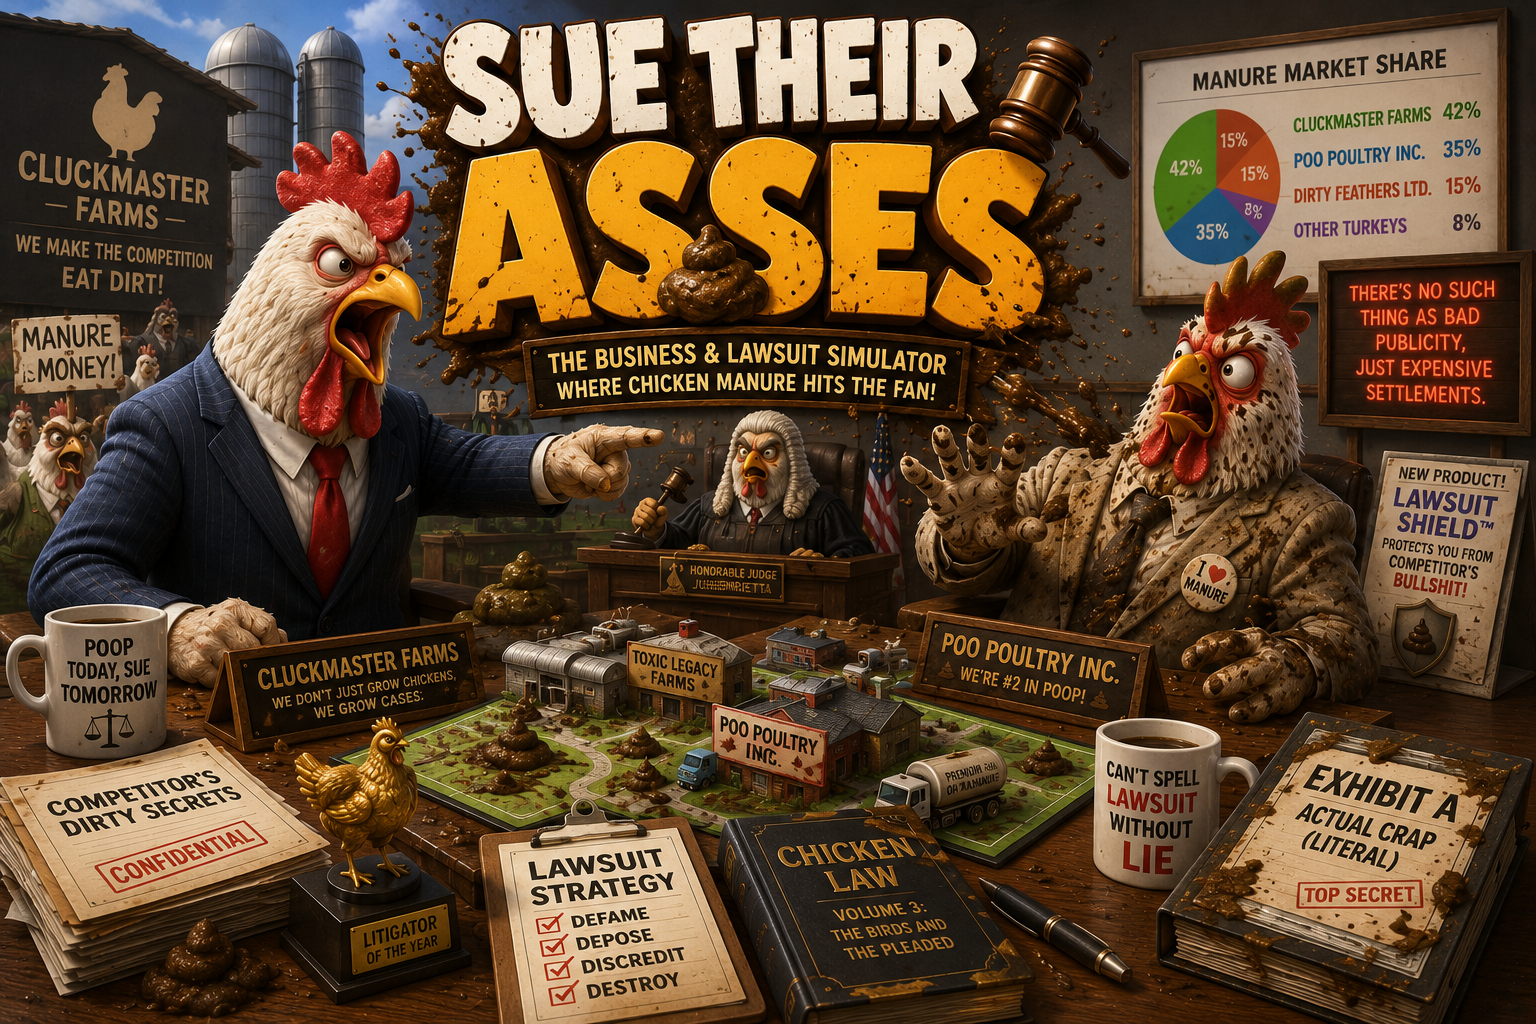
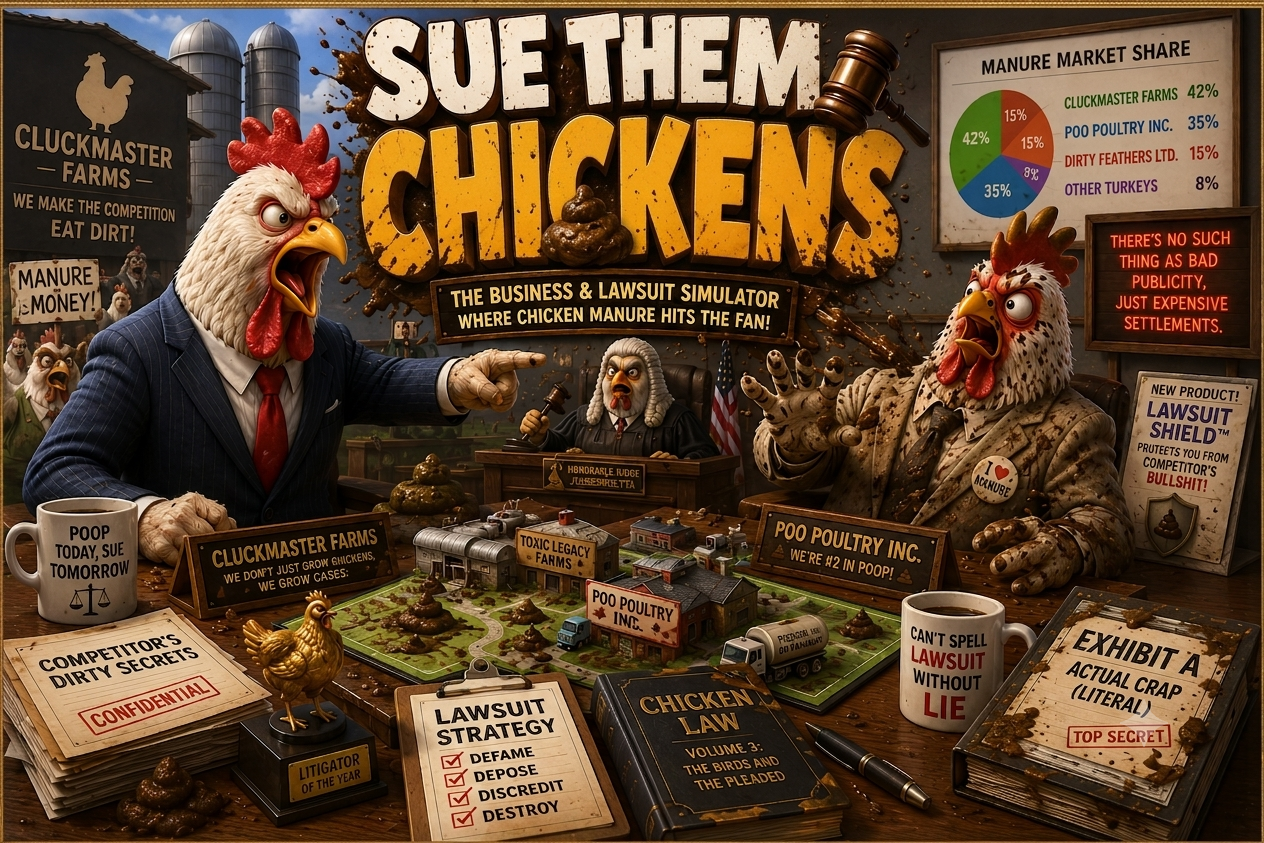
Rename game from "Sue Their Asses" to "Sue Them Chickens"
Covers player-facing text (title, buttons, copy, README/CLAUDE.md docs,
e2e selectors), the npm workspace scope (@suetheirasses/* ->
@suethemchickens/*), the root package name, and the new hero image —
verified with a fresh npm install, type-check, lint, and both unit test
suites (860 tests) passing.

Left untouched: REQUIREMENTS.md (user's own tracking file), the
production deploy path in .github/workflows/docker.yml (needs the
actual server directory renamed first), and the historical filename
reference in CLAUDE.md's changelog (describes a real past artifact).
The local project directory and any GitHub repo rename are separate,
out-of-band steps not covered by this commit.

diff --git a/client/src/pages/Matchmaking.tsx b/client/src/pages/Matchmaking.tsx
@@ -28,7 +28,7 @@ import { useGameStore } from '../stores/gameStore';
 import { useChatStore } from '../stores/chatStore';
 import { useConsentStore } from '../stores/consentStore';
 import FeedbackForm from '../components/FeedbackForm';
-import { ClientEvents, ServerEvents, type RoomInfo } from '@suetheirasses/shared';
+import { ClientEvents, ServerEvents, type RoomInfo } from '@suethemchickens/shared';
 
 /** localStorage key for remembering the player's name across visits — see `Matchmaking`'s name-entry section. */
 const NAME_STORAGE_KEY = 'stita_player_name';
@@ -386,7 +386,7 @@ const Matchmaking: React.FC = () => {
         <LoadingOverlay visible={isCreating || isSearching} />
         <Image
           src="/images/hero.png"
-          alt="Sue Their Asses — rival poultry tycoons face off in court"
+          alt="Sue Them Chickens — rival poultry tycoons face off in court"
           radius="md"
           mb="md"
         />
@@ -545,7 +545,7 @@ const Matchmaking: React.FC = () => {
       {/* Modal's own `title` prop already renders inside an <h2> — passing a Mantine
           <Title order={3}> (an <h3>) here nested an h3 inside an h2, an invalid-HTML
           hydration warning. Plain styled text avoids the nested heading entirely. */}
-      <Modal opened={aboutOpen} onClose={() => setAboutOpen(false)} title={<Text component="span" style={{ ...mmStyles.title, fontSize: '1.3rem' }}>⚖🐔 Sue Their Asses</Text>} centered size="md">
+      <Modal opened={aboutOpen} onClose={() => setAboutOpen(false)} title={<Text component="span" style={{ ...mmStyles.title, fontSize: '1.3rem' }}>⚖🐔 Sue Them Chickens</Text>} centered size="md">
         <Stack gap="md">
           <Text size="sm">
             Welcome to the cutthroat, deep-fried underbelly of industrial poultry. You and
@@ -566,7 +566,7 @@ const Matchmaking: React.FC = () => {
             <List.Item>
               Watches every other coop for something suspiciously fowl going on, and files a
               lawsuit over it — sometimes with real evidence, sometimes on nothing but a
-              hunch and a grudge, because SUE THEIR ASSES doesn't wait for proof
+              hunch and a grudge, because SUE THEM CHICKENS doesn't wait for proof
             </List.Item>
             <List.Item>Negotiates a settlement, or drags a rival to court and lets a judge decide who's really been up to no good in the coop</List.Item>
           </List>
@@ -593,9 +593,9 @@ const Matchmaking: React.FC = () => {
           <Text size="sm" fs="italic" style={{ color: 'var(--ink-text-soft)' }}>Last Updated: July 24, 2026</Text>
 
           <Text size="sm">
-            This Privacy Policy describes how Sue Their Asses ("we", "us", or "our")
+            This Privacy Policy describes how Sue Them Chickens ("we", "us", or "our")
             collects, uses, and protects your personal data when you play our web game at
-            suetheirasses.org. We are committed to respecting your privacy and complying
+            suethemchickens.org. We are committed to respecting your privacy and complying
             with applicable data protection laws, including the EU General Data Protection
             Regulation (GDPR) and Finnish data protection laws.
           </Text>

diff --git a/client/src/pages/GamePhase.tsx b/client/src/pages/GamePhase.tsx
@@ -14,7 +14,7 @@ import {
   type DecisionDefinition, type GameSettings, type SubmittedDecisions,
   type IncomingAttackInfo, type TurnResolutionResult,
   type KpiHistoryResponse,
-} from '@suetheirasses/shared';
+} from '@suethemchickens/shared';
 import {
   IconClock, IconFileText,
   IconTrendingUp, IconTrendingDown, IconMinus, IconSearch, IconGavel,
@@ -28,7 +28,7 @@ import {
 //
 // Note: there is no separate, hand-maintained catalog of lawsuit grounds — every
 // decision's `legalRisks` in the (admin-editable, DB-backed) decision library is a
-// selectable ground in the SUE THEIR ASSES modal, for every decision in the game, not
+// selectable ground in the SUE THEM CHICKENS modal, for every decision in the game, not
 // just ones a specific target has actually deployed. See getGroundsAgainst() near
 // SueModal: a player can knowingly guess a ground the target may or may not have
 // actually pursued — a wrong guess still costs the filing fee (not refunded) but
@@ -872,7 +872,7 @@ export default function GamePhase() {
                   onDismiss={(attackId) => setDismissedAttackIds((prev) => new Set(prev).add(attackId))}
                 />
                 <Button variant="filled" color="red" onClick={() => setSueModalOpen(true)} style={{ ...boldStyle }}>
-                  SUE THEIR ASSES (${(gameSettings?.lawsuitFilingCost ?? 0).toLocaleString()})
+                  SUE THEM CHICKENS (${(gameSettings?.lawsuitFilingCost ?? 0).toLocaleString()})
                 </Button>
                 <Stack gap="sm">
                   {pending.lawsuits.map((entry, i) => (
@@ -940,7 +940,7 @@ export default function GamePhase() {
         {kpiSubFieldGraph && <KpiHistoryGraph field={kpiSubFieldGraph.field} label={kpiSubFieldGraph.label} socket={socket} targetPlayerId={kpiSubFieldGraph.targetPlayerId} />}
       </Modal>
 
-      <Modal opened={sueModalOpen} onClose={closeSueModal} size="lg" centered title={<Text style={{ ...boldStyle, fontSize: '0.9rem' }}>📋 SUE THEIR ASSES</Text>}>
+      <Modal opened={sueModalOpen} onClose={closeSueModal} size="lg" centered title={<Text style={{ ...boldStyle, fontSize: '0.9rem' }}>📋 SUE THEM CHICKENS</Text>}>
         <SueModal
           competitors={competitors}
           decisions={decisions}
@@ -3440,7 +3440,7 @@ function ThreatView({ data, prevData, onFieldClick }: ThreatViewProps) {
 
 interface RiskBreakdownViewProps {
   caseData: LegalCaseData;
-  vars: import('@suetheirasses/shared').PlayerVariables;
+  vars: import('@suethemchickens/shared').PlayerVariables;
 }
 
 function RiskBreakdownView({ caseData, vars }: RiskBreakdownViewProps) {

diff --git a/server/src/socket/gameEngine.ts b/server/src/socket/gameEngine.ts
@@ -32,7 +32,7 @@ import {
   type TimelineLawsuitEvent,
   type PlayerVariables,
   type PlayerDerivedStats,
-} from '@suetheirasses/shared';
+} from '@suethemchickens/shared';
 import type { PersistedDecisionInstance } from '../engine/gameLoop.js';
 import { validateRoomJoin, validateSubmitDecisions, validateDigDeeper, validateFileLawsuit, validateRoomRejoin, validateAnnualReportRequest, validateChatMessage, validateGameReady, validateRoomSetInviteOnly, validateKpiHistoryRequest, validateMakeOffer, validateAcceptOffer, validateGoToCourt, validateDigDeeperCase } from '../validation/schemas.js';
 import { GameLoop } from '../engine/gameLoop.js';
@@ -156,7 +156,7 @@ export class GameEngine {
    * that hasn't gone through `startGame` yet — not a real production path, see
    * `getRoomDeck`'s doc comment) is treated as unrestricted, not "reject everything."
    */
-  submitDecisions(roomId: string, playerId: string, decisions: import('@suetheirasses/shared').SubmittedDecisions): void {
+  submitDecisions(roomId: string, playerId: string, decisions: import('@suethemchickens/shared').SubmittedDecisions): void {
     const roomState = this.rooms.get(roomId);
     const allowed = roomState && roomState.decisionSubset.length > 0 ? new Set(roomState.decisionSubset) : undefined;
     const filtered = allowed
@@ -848,7 +848,7 @@ export class GameEngine {
    * This room's fixed decision set (see `pickRandomDecisionSubset`), resolved back into
    * full definitions — what `game:deck` actually sends, on both `startGame` and a
    * mid-game `rejoinRoom`. Everything downstream that reads "the decision library"
-   * client-side (the Decision Deck, SUE THEIR ASSES' whole-library ground catalog, Dig
+   * client-side (the Decision Deck, SUE THEM CHICKENS' whole-library ground catalog, Dig
    * Deeper's suggested-ground reveal) only ever sees decisions it received this way, so
    * scoping this one broadcast is what makes lawsuits/deploys implicitly follow the
    * room's assigned set — no separate client-side filtering needed. Falls back to the

diff --git a/client/src/stores/gameStore.test.ts b/client/src/stores/gameStore.test.ts
@@ -1,7 +1,7 @@
 import { describe, it, expect, beforeEach } from 'vitest';
 import { useGameStore } from './gameStore';
-import { RoomStatus } from '@suetheirasses/shared';
-import type { Room, Player, PhaseChangedResponse, GameOverResponse, ErrorResponse, TurnResolutionResult, PlayerTurnResult } from '@suetheirasses/shared';
+import { RoomStatus } from '@suethemchickens/shared';
+import type { Room, Player, PhaseChangedResponse, GameOverResponse, ErrorResponse, TurnResolutionResult, PlayerTurnResult } from '@suethemchickens/shared';
 
 // Helper to create a mock room
 const createMockRoom = (overrides: Partial<Room> = {}): Room => ({
@@ -556,7 +556,7 @@ describe('gameStore', () => {
       ...overrides,
     });
 
-    const makeCase = (overrides: Partial<import('@suetheirasses/shared').LegalCaseData> = {}): import('@suetheirasses/shared').LegalCaseData => ({
+    const makeCase = (overrides: Partial<import('@suethemchickens/shared').LegalCaseData> = {}): import('@suethemchickens/shared').LegalCaseData => ({
       id: 'case-1',
       roomId: 'room-1',
       plaintiffId: 'player-2',

diff --git a/client/src/stores/socketStore.ts b/client/src/stores/socketStore.ts
@@ -1,6 +1,6 @@
 import { create } from 'zustand';
 import { io, Socket } from 'socket.io-client';
-import { ClientEvents, ServerEvents, type RoomJoinedResponse, type RoomRejoinPayload, type RoomUpdatedResponse, type PhaseChangedResponse, type GameOverResponse, type ErrorResponse, type TurnResolutionResult, type GameDeckResponse, type DigDeeperResultPayload, type FileLawsuitResultPayload, type AnnualReportResultPayload, type LegalCaseUpdatePayload, type ChatMessageBroadcast } from '@suetheirasses/shared';
+import { ClientEvents, ServerEvents, type RoomJoinedResponse, type RoomRejoinPayload, type RoomUpdatedResponse, type PhaseChangedResponse, type GameOverResponse, type ErrorResponse, type TurnResolutionResult, type GameDeckResponse, type DigDeeperResultPayload, type FileLawsuitResultPayload, type AnnualReportResultPayload, type LegalCaseUpdatePayload, type ChatMessageBroadcast } from '@suethemchickens/shared';
 import { useGameStore } from './gameStore';
 import { useChatStore } from './chatStore';
 

diff --git a/tests/e2e/matchmaking.spec.ts b/tests/e2e/matchmaking.spec.ts
@@ -3,7 +3,7 @@ import { test, expect } from '@playwright/test';
 test.describe('Matchmaking Page', () => {
   test('should load the matchmaking page', async ({ page }) => {
     await page.goto('/');
-    await expect(page).toHaveTitle(/.*Sue Their Asses.*/i);
+    await expect(page).toHaveTitle(/.*Sue Them Chickens.*/i);
   });
 
   // The landing page's title/subtitle used to be separate text elements; both are now
@@ -12,7 +12,7 @@ test.describe('Matchmaking Page', () => {
   // that image renders with its descriptive alt text covers both.
   test('should display the game title', async ({ page }) => {
     await page.goto('/');
-    await expect(page.getByRole('img', { name: /Sue Their Asses/i })).toBeVisible();
+    await expect(page.getByRole('img', { name: /Sue Them Chickens/i })).toBeVisible();
   });
 
   test('should have a name input field', async ({ page }) => {

diff --git a/server/src/engine/legalEngine.test.ts b/server/src/engine/legalEngine.test.ts
@@ -1,6 +1,6 @@
 import { describe, it, expect } from 'vitest';
 import { LegalEngine } from './legalEngine';
-import type { AdminVariables, PlayerVariables } from '@suetheirasses/shared';
+import type { AdminVariables, PlayerVariables } from '@suethemchickens/shared';
 
 // ── Helpers ──────────────────────────────────────────────────
 
@@ -83,7 +83,7 @@ function makeAdmin(overrides: Partial<AdminVariables> = {}): AdminVariables {
   };
 }
 
-function makeLegalRiskDef(overrides: Partial<import('@suetheirasses/shared').LegalRiskDefinition> = {}) {
+function makeLegalRiskDef(overrides: Partial<import('@suethemchickens/shared').LegalRiskDefinition> = {}) {
   return {
     name: 'Breach of Contract',
     description: 'Sue for breach',

diff --git a/tests/e2e/gamePhase.spec.ts b/tests/e2e/gamePhase.spec.ts
@@ -73,11 +73,11 @@ test.describe('Game Phase', () => {
     await expect(page.getByRole('button', { name: 'DEPLOY' }).first()).toBeVisible();
     await page.keyboard.press('Escape');
 
-    // SUE THEIR ASSES lives in the Open Lawsuits box, not the Decision Deck — its label
+    // SUE THEM CHICKENS lives in the Open Lawsuits box, not the Decision Deck — its label
     // shows the flat filing fee (gameSettings.lawsuitFilingCost), charged instantly the
     // moment a lawsuit is actually filed, not just for opening this button's modal.
     await expect(page.getByText('Open Lawsuits (0)')).toBeVisible();
-    await expect(page.getByText(/SUE THEIR ASSES \(\$[\d,]+\)/)).toBeVisible();
+    await expect(page.getByText(/SUE THEM CHICKENS \(\$[\d,]+\)/)).toBeVisible();
 
     await secondPlayer.context().close();
   });

diff --git a/server/src/index.ts b/server/src/index.ts
@@ -9,7 +9,7 @@ import { validateDecisionDefinition, validateGameConfig, validateFormulaUpdate, 
 import { generateDecisionCandidate, type DecisionGenRequest } from './services/decisionGenService.js';
 import { logEvent } from './services/eventLogService.js';
 import { aggregateDecisionAnalytics, aggregateLawsuitAnalytics, aggregatePerformanceAnalytics } from './services/analyticsService.js';
-import type { FeedbackEntry, FeedbackSource, EventLogEntry, EventSeverity } from '@suetheirasses/shared';
+import type { FeedbackEntry, FeedbackSource, EventLogEntry, EventSeverity } from '@suethemchickens/shared';
 
 const app = express();
 const httpServer = createServer(app);

diff --git a/shared/src/gameTypes.ts b/shared/src/gameTypes.ts
@@ -62,7 +62,7 @@ export interface GameSettings {
   marketFixed: boolean;
   /** Cash cost of one "Dig Deeper" investigation click — deducted instantly, outside turn resolution. */
   digDeeperCost: number;
-  /** Flat cost of filing one lawsuit (the SUE THEIR ASSES flow) — deducted instantly the
+  /** Flat cost of filing one lawsuit (the SUE THEM CHICKENS flow) — deducted instantly the
    * moment a player files, outside turn resolution, same "instant" pattern as
    * `digDeeperCost`. Not refunded if the case is later rejected at turn resolution (e.g.
    * the target no longer has the cited decision deployed) — filing is a real, deliberate

diff --git a/server/src/socket/gameEngine.test.ts b/server/src/socket/gameEngine.test.ts
@@ -1,6 +1,6 @@
 import { describe, it, expect, vi, beforeEach } from 'vitest';
 import { GameEngine } from './gameEngine';
-import { RoomStatus, ServerEvents, PHASE_TIMERS, PHASE_ORDER, type DecisionDefinition, type GameConfig } from '@suetheirasses/shared';
+import { RoomStatus, ServerEvents, PHASE_TIMERS, PHASE_ORDER, type DecisionDefinition, type GameConfig } from '@suethemchickens/shared';
 import type { Server } from 'socket.io';
 import type { PrismaClient, Room as PrismaRoom, Player as PrismaPlayer, Company as PrismaCompany } from '@prisma/client';
 import gameEngineData from '../data/game_engine.json' with { type: 'json' };

diff --git a/server/src/engine/gameLoop.test.ts b/server/src/engine/gameLoop.test.ts
@@ -2,7 +2,7 @@ import { describe, it, expect, beforeEach, vi } from 'vitest';
 import { GameLoop, type EngineDataInput } from './gameLoop';
 import { DEFAULT_FORMULA_SEEDS } from './defaultFormulas';
 import { SELF_OWNERSHIP_KEY, EXTERNAL_MARKET_KEY } from './calcEngine';
-import type { GameConfig, PlayerVariables, LegalCaseData } from '@suetheirasses/shared';
+import type { GameConfig, PlayerVariables, LegalCaseData } from '@suethemchickens/shared';
 
 // ── Helpers ──────────────────────────────────────────────────
 
